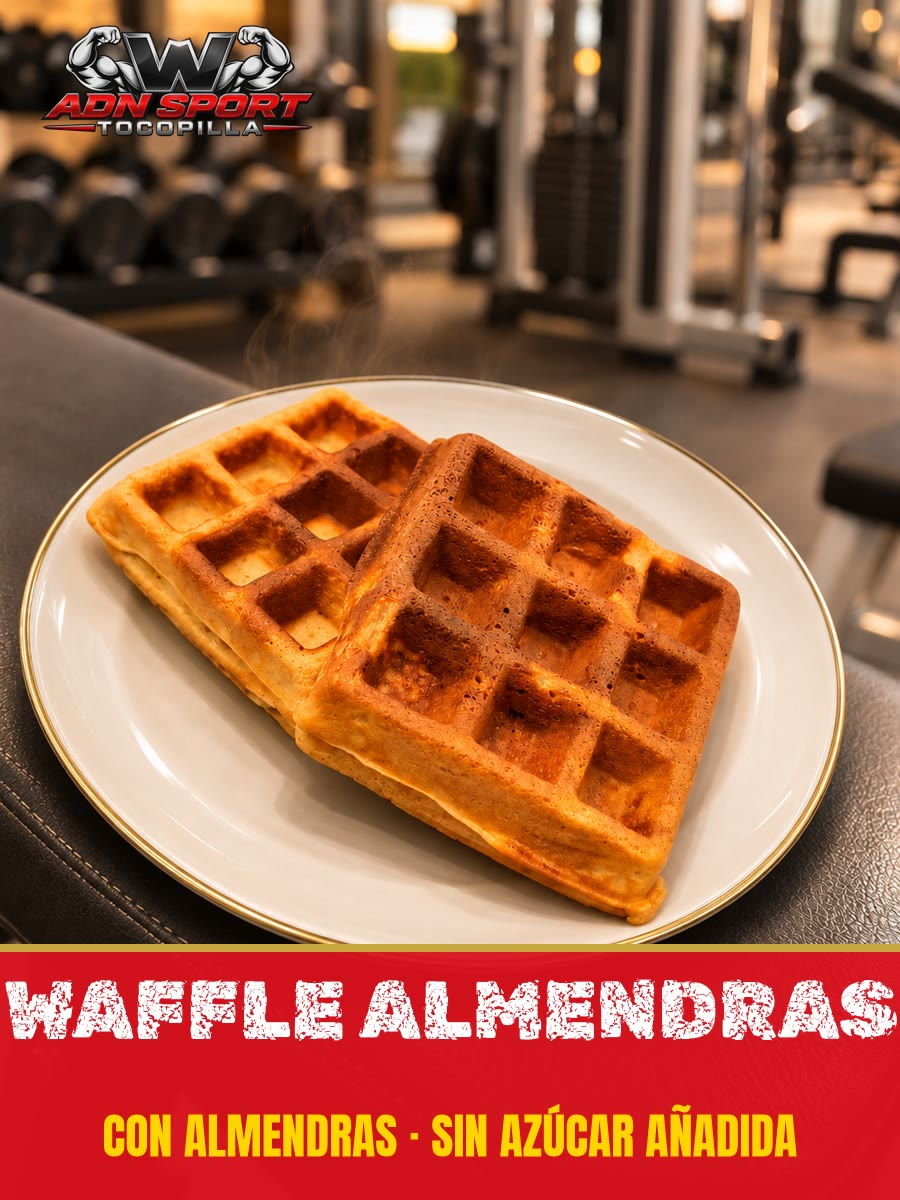
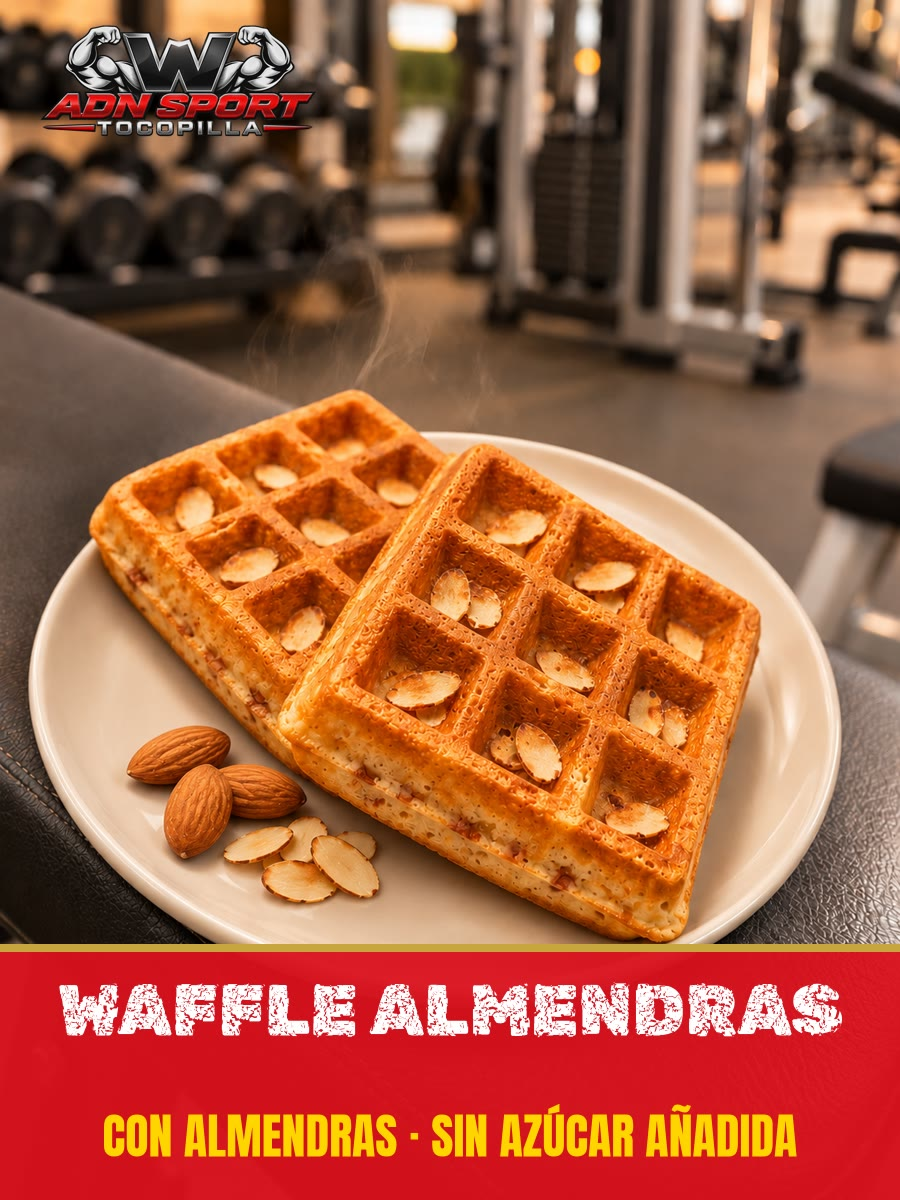
Tienda: foto real del waffle de almendras
Claude-Session: https://claude.ai/code/session_013ZgZPSRHEDhMsqmx8Km842

diff --git a/tienda.html b/tienda.html
@@ -261,7 +261,7 @@ function hoyISO(){ return new Intl.DateTimeFormat("en-CA", { timeZone:"America/S
 function ahoraTxt(){ var f = new Intl.DateTimeFormat("sv-SE", { timeZone:"America/Santiago", year:"numeric", month:"2-digit", day:"2-digit", hour:"2-digit", minute:"2-digit" }).format(new Date()); return f.replace("T", " ").slice(0, 16); }
 function normTxt(s){ return String(s || "").toUpperCase().normalize("NFD").replace(/[̀-ͯ]/g, ""); }
 /* Al cambiar una foto en img/tienda/ (mismo nombre), subir FOTO_V para que los teléfonos no muestren la antigua. */
-var FOTO_V = "57";
+var FOTO_V = "58";
 function fotoUrl(f){ return f ? (/^data:/.test(f) ? f : f + (f.indexOf("?") < 0 ? "?v=" + FOTO_V : "")) : ""; }
 /* 📷 Foto subida desde el celular (27-10-2026, la dueña: "¿no lo puedo hacer todo sin depender de ti?"): se achica a
    máx. 480 × 640, se le pone el logo del gimnasio arriba a la izquierda (34 % del ancho, como las demás fotos) y se guarda
@@ -536,7 +536,7 @@ setInterval(function(){ if(pend.length) enviarPendientes(); }, 30000);
    el computador"): los datos se vuelven a pedir a la planilla cada 30 s mientras la página está a la vista (sin una ficha
    abierta), y cada minuto se revisa tienda-version.txt: si hay una versión nueva de la página, se recarga sola.
    Cada vez que se cambie tienda.html, subir TIENDA_VERSION y tienda-version.txt juntos (AAAAMMDDNN). */
-var TIENDA_VERSION = "2026110512";
+var TIENDA_VERSION = "2026110513";
 setInterval(function(){ if(clave && !document.hidden && $("velo").hidden && !$("app").hidden) enviarPendientes().then(function(){ cargar(true); }); }, 30000);
 function revisarVersion(){
  fetch("tienda-version.txt?t=" + Date.now(), { cache:"no-store" }).then(function(r){ return r.ok ? r.text() : ""; }).then(function(v){

diff --git a/tarjeta.html b/tarjeta.html
@@ -2474,7 +2474,7 @@ function renderEvolucion(s){
     oculta con «Ya no lo vendo» no llega. «Lo quiero» abre una ventanita (foto grande, cantidad, total)
     y después WhatsApp a Sara con el pedido. El stock solo baja cuando ella cobra en la tienda.
     Al cambiar una foto de img/tienda/ con el mismo nombre, subir TIENDA_FOTO_V junto con FOTO_V de tienda.html. */
- var TIENDA_FOTO_V = "57", TIENDA_WSP = "56975196394", TIENDA_SITIO = "https://encaladasara363-lang.github.io/wgymadnsport-archivos/";
+ var TIENDA_FOTO_V = "58", TIENDA_WSP = "56975196394", TIENDA_SITIO = "https://encaladasara363-lang.github.io/wgymadnsport-archivos/";
  /* Interruptor (25-10-2026, la dueña: "no quiero publicar la tienda el lunes porque compré ropa en Shein y no sé
     cuándo me llegaría"): en false la tarjeta no muestra la tienda aunque la Versión 25 esté instalada.
     Ponerlo en true (y subir TARJETA_VERSION) solo cuando ella lo pida. */
@@ -2689,7 +2689,7 @@ function renderEvolucion(s){
     compara TARJETA_VERSION con tarjeta-version.txt del sitio y, si hay
     una más nueva, la página se recarga sola (el nombre ya aparece
     puesto). Al cambiar tarjeta.html, subir los DOS números juntos. */
- var TARJETA_VERSION = "2026110517", ultimaRevisionVersion = 0;
+ var TARJETA_VERSION = "2026110518", ultimaRevisionVersion = 0;
 function recargarFresco_(v){
  /* Recarga pidiendo la página nueva (11-10-2026): location.reload() podía traer la copia
     guardada del teléfono (GitHub guarda la página ~10 min) y el socio seguía con la versión

diff --git a/CLAUDE.md b/CLAUDE.md
@@ -1635,7 +1635,7 @@ productos» y «Tienda movimientos», acciones `tienda*` de `docs/apps-script/In
 - **🍹 Categoría «Smoothies» (05-11-2026, la dueña: "una sección de smoothies… unos 10 sabores", el primero el Choco Banana Cream):** en `CATS` de `tienda.html`, `TIENDA_ICONOS` de `tarjeta.html` y `SIN_APARTAR`; la vitrina cerrada dice «🍹 Smoothies proteicos». Todos los sabores salen de las porciones del producto «Tarro de proteína …» (Suplementos, stock = porciones de 30 g; `USA_PORCION` `/^smoothie/` → `/^tarro de prote/`); el tarro no se muestra a los socios (la tarjeta lo saca de la vitrina) y cada smoothie toma su stock. Los nombres empiezan con «Smoothie proteico …»; cada sabor lleva su línea en `TIENDA_MACROS`. Un solo código para todos: `CODIGOS_GRUPO` `"2004500000001": "Smoothies"` («🍹 ¿Qué sabor?» al escanear); etiquetas de 24 por hoja de 5 × 7 pulgadas con «SMOOTHIES $4.500», leídas con ZXing. El ganador de masa también sale del tarro (`/^(tarro de prote|batido de prote)/`).
 - **🍫 Barrita Choco Maní — YA NO SE VENDE desde el 05-11-2026 (la dueña: "las barritas no las haré más"; se oculta en el inventario con «🗑 Ya no lo vendo»; no volver a ofrecerla). Era (03-11-2026, afiche de la dueña + logo arriba a la izquierda al 22 %, como la creatina: `img/tienda/barrita-choco-mani.jpg`):** Snacks, 28 g, chocolate sin azúcar con almendras y maní; costo $1.000, venta $2.000; código propio 200….
 - **🧇 Waffle de arroz, avena y dátil (05-11-2026, receta casera de la dueña, sin topping):** Snacks, 1 waffle belga de su waflera giratoria (≈130 g de masa: harina de arroz, avena, dátil, leche sin lactosa, 12 g de leche en polvo y 30 g de yogur griego por media receta, huevo, aceite de coco); costo ≈$580, venta $1.000 (ella eligió ese precio para vender más), 10 unidades, código propio 200…; foto `img/tienda/waffle-arroz-avena-datil.jpg` (ChatGPT: plato blanco con borde dorado sobre el banco negro, + logo; cambiada el mismo día, FOTO_V 51). Macros en `TIENDA_MACROS` (`/^waffle/`): ≈355 kcal · 12 P · 48 C · 13,5 G; contiene huevo y leche.
-- **🧇 Categoría «Waffles» (06-11-2026, la dueña hizo waffles de berries, almendras y cacao y quiere un solo código):** en `CATS` de `tienda.html`, `TIENDA_ICONOS` de `tarjeta.html` y `SIN_APARTAR`; la vitrina cerrada dice «🧇 Waffles caseros sin azúcar añadida». Un solo código para todos los sabores: `CODIGOS_GRUPO` `"2000000100012": "Waffles"` (el mismo de la etiqueta ya impresa del waffle de arroz) → «¿Qué sabor?» al escanear. Los nombres empiezan con «Waffle de …» ($1.000 cada uno). Etiquetas 5 × 7 pulgadas: 8 por sabor con el nombre (WAFFLE BERRIES / ALMENDRAS / CACAO). Los macros de `TIENDA_MACROS` (`/^waffle de arroz/`) son solo del de arroz, avena y dátil; cada sabor nuevo necesita su línea cuando la dueña mande la receta. Foto de berries `img/tienda/waffle-berries.jpg` hecha en ChatGPT (06-11-2026, + logo + franja; 2 unidades). Fotos provisorias `waffle-almendras.jpg` y `waffle-cacao.jpg` (la foto del plato con franja roja/dorada con el sabor; ya traen el logo) hasta que la dueña mande las de ChatGPT con cada sabor a la vista.
+- **🧇 Categoría «Waffles» (06-11-2026, la dueña hizo waffles de berries, almendras y cacao y quiere un solo código):** en `CATS` de `tienda.html`, `TIENDA_ICONOS` de `tarjeta.html` y `SIN_APARTAR`; la vitrina cerrada dice «🧇 Waffles caseros sin azúcar añadida». Un solo código para todos los sabores: `CODIGOS_GRUPO` `"2000000100012": "Waffles"` (el mismo de la etiqueta ya impresa del waffle de arroz) → «¿Qué sabor?» al escanear. Los nombres empiezan con «Waffle de …» ($1.000 cada uno). Etiquetas 5 × 7 pulgadas: 8 por sabor con el nombre (WAFFLE BERRIES / ALMENDRAS / CACAO). Los macros de `TIENDA_MACROS` (`/^waffle de arroz/`) son solo del de arroz, avena y dátil; cada sabor nuevo necesita su línea cuando la dueña mande la receta. Foto de berries `img/tienda/waffle-berries.jpg` y de almendras `waffle-almendras.jpg` hechas en ChatGPT (06-11-2026, + logo + franja; berries 2 unidades, almendras y cacao 8). Foto provisoria `waffle-cacao.jpg` (la foto del plato con franja roja/dorada con el sabor; ya traen el logo) hasta que la dueña mande las de ChatGPT con cada sabor a la vista.
 - **💪 Creatina por porción en bolsita de 5 g (03-11-2026, afiche de la dueña + logo arriba a la izquierda, más chico (22 %) para no tapar «CREATINA»: `img/tienda/creatina-por-porcion-bolsita.jpg`):** Suplementos, venta $1.000; costo $104 (bolsa OstroVit 100 % Creatine Monohydrate natural de 1 kg a $20.840 ÷ 200 bolsitas de 5 g, sin contar la bolsita); 1 bolsita = 1 unidad del stock.
 - **🧊 Pre entreno granizado Fruit Punch (03-11-2026, afiche de la dueña con el logo: `img/tienda/pre-entreno-granizado-fruit-punch.jpg`):** Bebestibles, costo $1.000 (porción + hielo + vaso), vaso a $3.000, «+ Creatina $1.000» (en 🛒 Vender y en la ventanita de la tarjeta). No lleva stock propio: cada vaso descuenta 1 porción del tarro «Pre entreno Mr Hyde Signature Fruit Punch» (`USA_PORCION` en `tienda.html`; la vitrina de la tarjeta toma el stock de ese tarro). Solo adultos, no apto en embarazo ni lactancia.
 - **👖 Pantalón deportivo gris jaspeado con franjas negras (03-11-2026):** Ropa mujer, talla S, pierna ancha, «DIRECTION» en el muslo; costo $10.000, venta $15.000, 1 unidad; foto `img/tienda/pantalon-deportivo-gris-franjas-negras.jpg` (afiche rosado de la dueña, ya trae el logo).
